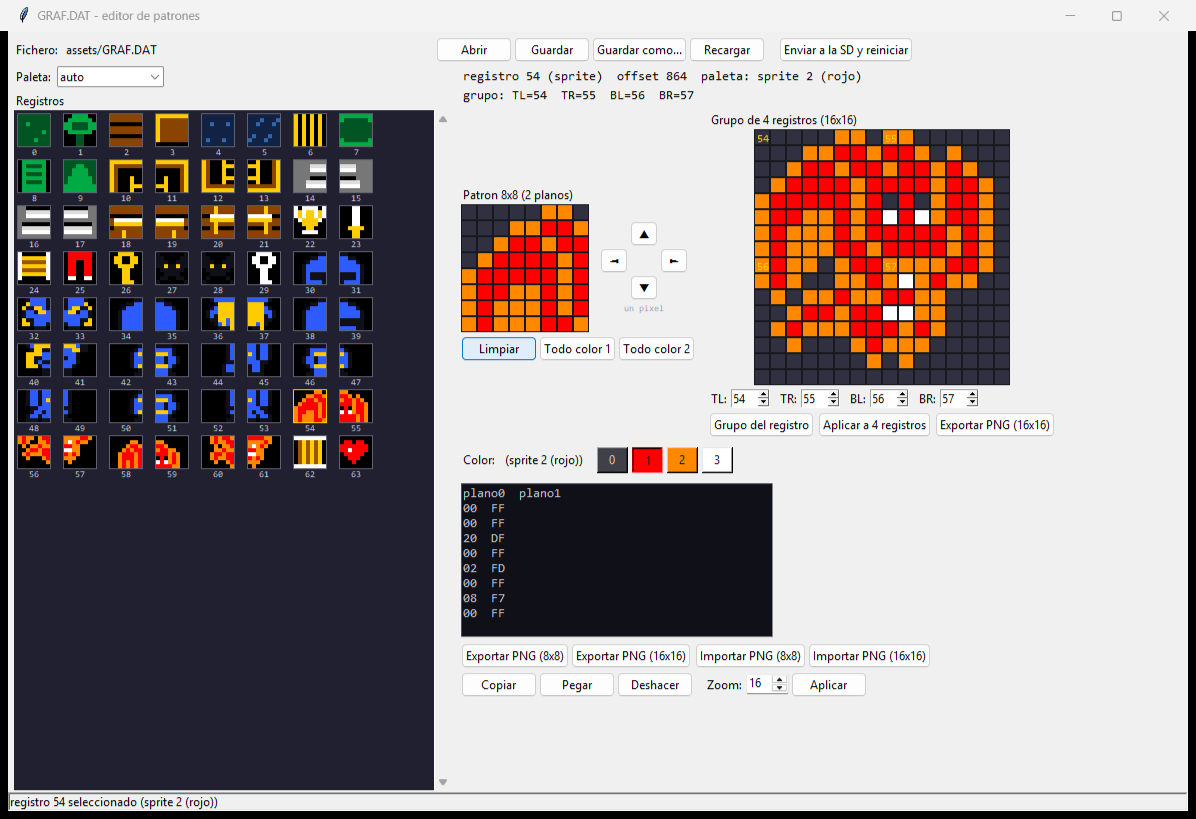
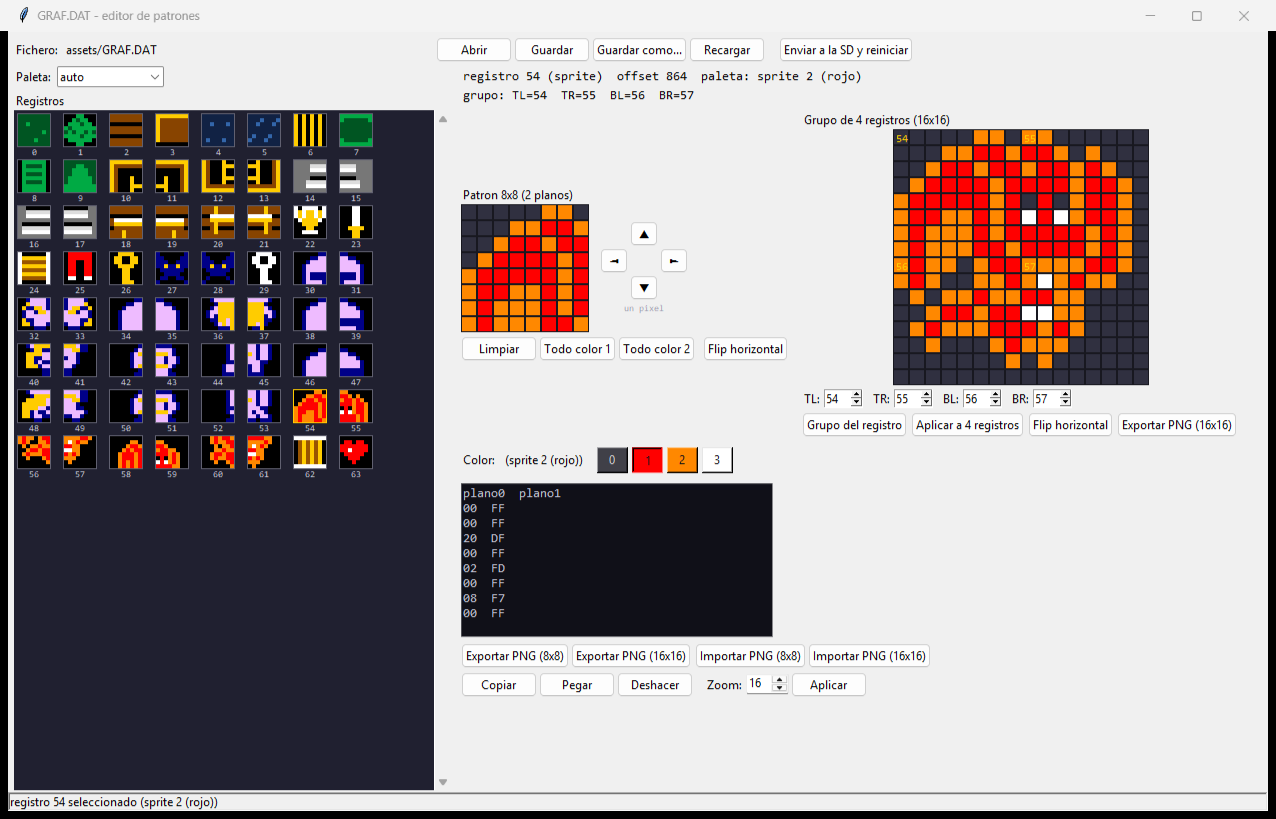
Editor: boton de flip horizontal para el patron 8x8 y el mosaico 16x16

Changed region(s): [[0.0, 0.0, 0.959, 0.9768], [0.0, 0.9768, 0.1856, 1.0]]

diff --git a/tools/graf_editor.py b/tools/graf_editor.py
@@ -42,11 +42,17 @@ def rgb_to_hex(col):
     return "#%02X%02X%02X" % col
 
 
+def _espejar(rec):
+    """Espeja horizontalmente un registro 8x8 (invierte cada fila)."""
+    pix = gf.record_to_pixels(rec)
+    return gf.pixels_to_record([list(reversed(fila)) for fila in pix])
+
+
 class Editor(tk.Tk):
     def __init__(self, path=None):
         super().__init__()
         self.title("GRAF.DAT - editor de patrones")
-        self.geometry("1180x780")
+        self.geometry("1260x780")
         self.minsize(1000, 700)
 
         self.graf = None
@@ -169,6 +175,8 @@ class Editor(tk.Tk):
                    command=lambda: self.rellenar(1)).pack(side="left", padx=2)
         ttk.Button(row1, text="Todo color 2",
                    command=lambda: self.rellenar(2)).pack(side="left")
+        ttk.Button(row1, text="Flip horizontal",
+                   command=self.girar8).pack(side="left", padx=(8, 0))
 
         # lienzo 16x16
         l2 = ttk.Frame(mid)
@@ -198,7 +206,8 @@ class Editor(tk.Tk):
         row.pack(side="top", anchor="w", pady=(4, 0))
         ttk.Button(row, text="Grupo del registro", command=self.quad_bloque).pack(side="left")
         ttk.Button(row, text="Aplicar a 4 registros", command=self.quad_aplicar).pack(side="left", padx=4)
-        ttk.Button(row, text="Exportar PNG (16x16)", command=self.exportar_png16).pack(side="left")
+        ttk.Button(row, text="Flip horizontal", command=self.girar16).pack(side="left")
+        ttk.Button(row, text="Exportar PNG (16x16)", command=self.exportar_png16).pack(side="left", padx=4)
 
         # paleta de colores
         pal_frame = ttk.Frame(right)
@@ -574,6 +583,46 @@ class Editor(tk.Tk):
         self.refrescar()
         self.refrescar_estado("patron %d desplazado %+d,%+d"
                               % (self.sel, dx, dy))
+
+    # ------------------------------------------------------------------
+    # Espejo horizontal
+    # ------------------------------------------------------------------
+    def girar8(self):
+        """Espeja horizontalmente el patron 8x8 seleccionado."""
+        if not self.graf:
+            return
+        self._push_undo()
+        self.graf.set(self.sel, _espejar(self.graf.get(self.sel)))
+        self.refrescar()
+        self.refrescar_estado("patron %d espejado" % self.sel)
+
+    def girar16(self):
+        """Espeja horizontalmente el mosaico 16x16 y lo escribe en la imagen.
+
+        El espejo de una imagen 16x16 es espejar cada cuadrante y ademas
+        intercambiar TL<->TR y BL<->BR.
+        """
+        if not self.graf:
+            return
+        base = gf.grupo_de(self.sel)[0]
+        if base + 3 >= len(self.graf):
+            return
+        if not messagebox.askyesno(
+                "Flip horizontal",
+                "Espejar el mosaico y escribirlo en los registros %d..%d?"
+                % (base, base + 3)):
+            return
+        origen = [bytes(self.graf.get(self.quad[k])) for k in range(4)]
+        espejo = [_espejar(origen[1]), _espejar(origen[0]),
+                  _espejar(origen[3]), _espejar(origen[2])]
+        self._push_undo()
+        for k in range(4):
+            self.graf.set(base + k, espejo[k])
+        self.quad = gf.grupo_de(self.sel)
+        self.quad_manual = False
+        self.refrescar()
+        self.refrescar_estado("mosaico espejado en los registros %d..%d"
+                              % (base, base + 3))
 
     def set_zoom(self):
         try:

diff --git a/README.md b/README.md
@@ -212,10 +212,11 @@ En Windows tambien se puede lanzar con doble clic en `tools/graf_editor.bat`.
 - Pintar pixel a pixel el registro elegido: **clic izquierdo** pinta el color
   marcado y **clic derecho** pone el color 0 (transparente). Junto al patrón
   hay botones para **Limpiar** (vaciarlo), **Todo color 1** y **Todo color 2**
-  (rellenarlo de un color) y una **cruceta de flechas** (▲ ◄ ▼ ►) a la derecha
-  del patrón que lo desplazan un píxel; las flechas del teclado hacen lo mismo
-  cuando el lienzo tiene el foco. El desplazamiento **no da la vuelta**: lo que
-  sale por un lado se pierde y por el otro entra el color 0 (transparente).
+  (rellenarlo de un color), un **Flip horizontal** (espeja el patrón) y una
+  **cruceta de flechas** (▲ ◄ ▼ ►) a la derecha del patrón que lo desplazan un
+  píxel; las flechas del teclado hacen lo mismo cuando el lienzo tiene el foco.
+  El desplazamiento **no da la vuelta**: lo que sale por un lado se pierde y por
+  el otro entra el color 0 (transparente).
 - Vista del **grupo de 4 registros** que forma cada imagen de 16x16 (hoyo,
   escalera, altar, jugador, dragones). Cada cuadrante (TL, TR, BL, BR) tiene su
   propio selector para **elegir que patron se pone en cada uno**, asi que se
@@ -226,6 +227,8 @@ En Windows tambien se puede lanzar con doble clic en `tools/graf_editor.bat`.
   - clic en un cuadrante del mosaico: edita ese patron;
   - **Aplicar a 4 registros**: escribe los 4 patrones del grupo en los 4
     registros de la imagen (con confirmacion y deshacer);
+  - **Flip horizontal**: espeja el mosaico entero (espeja cada cuadrante e
+    intercambia TL<->TR y BL<->BR) y lo escribe en los 4 registros de la imagen;
   - **Exportar PNG (16x16)** exporta el mosaico tal y como se ve, con la paleta
     de cada patron.
 - **Exportar PNG (8x8)** y **Exportar PNG (16x16)**: saca el patron como imagen
